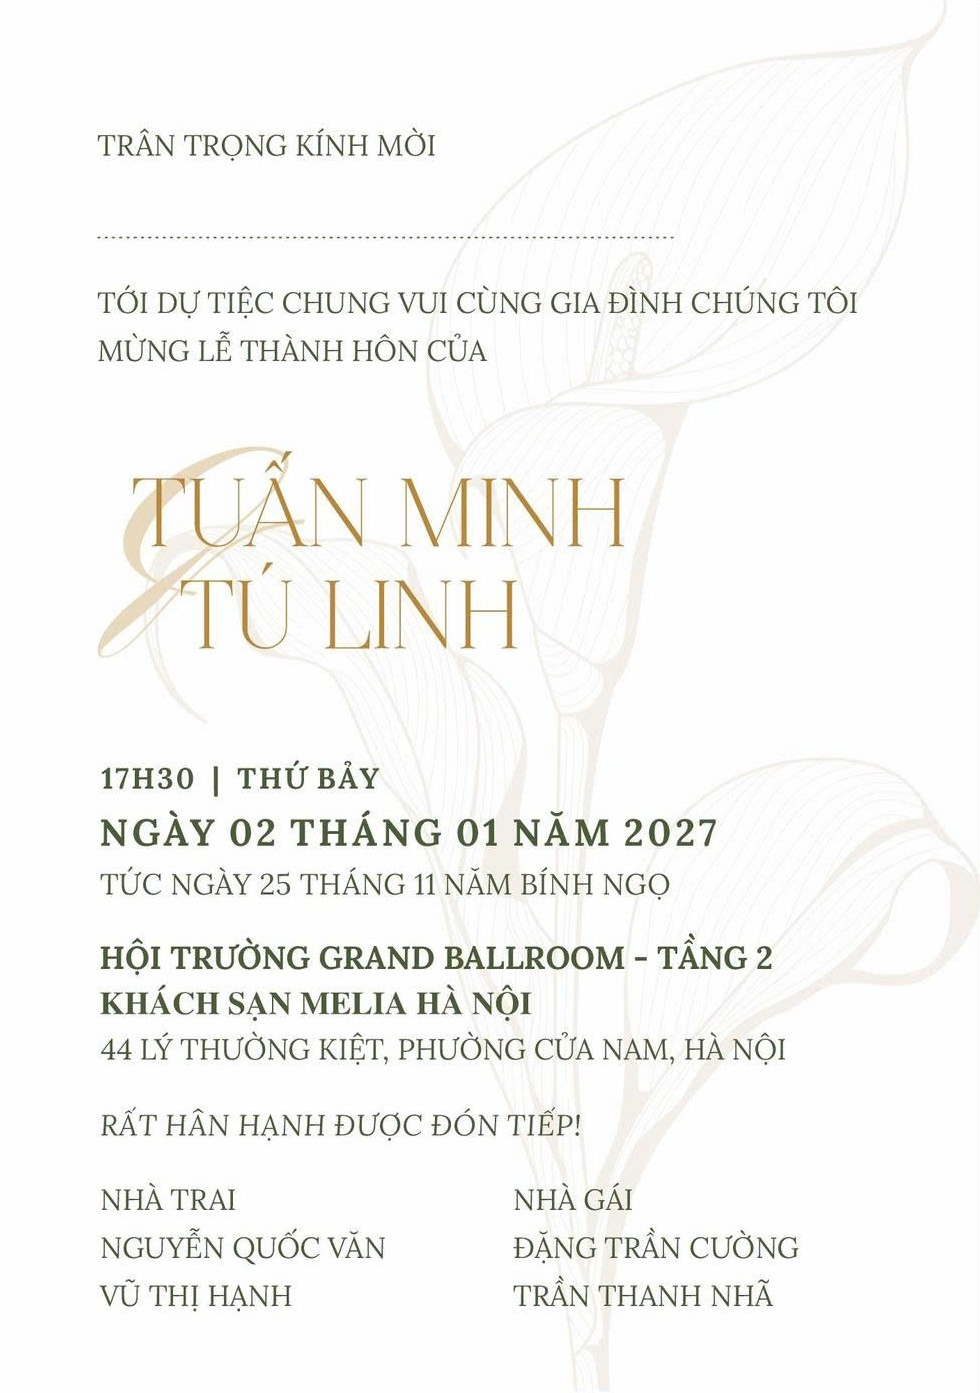
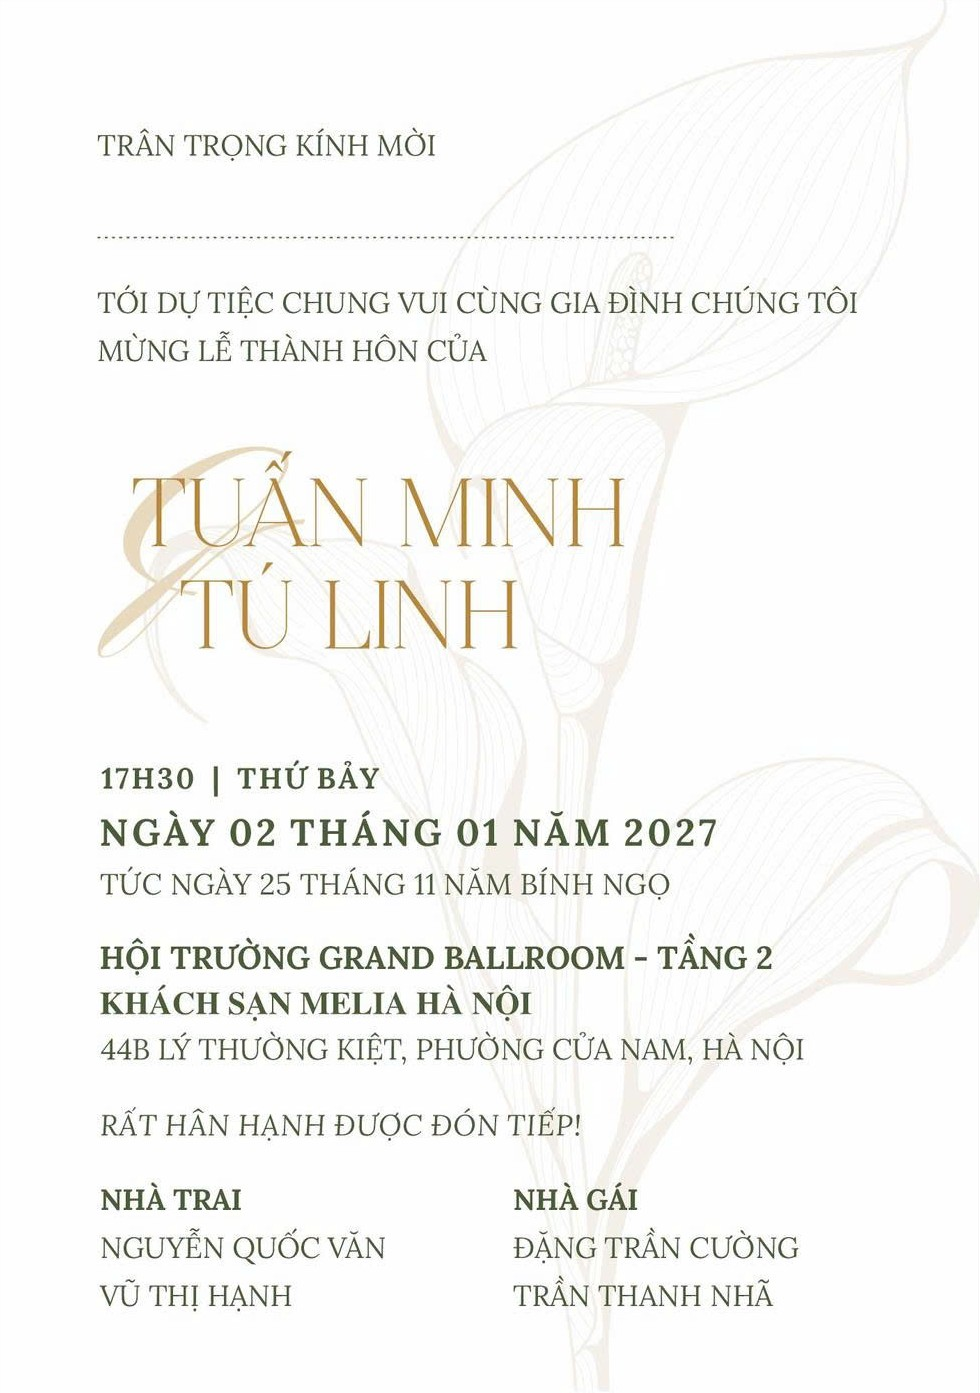
Cập nhật hai mặt thiệp theo bản in mới (Chương trình tiệc cưới, số nhà 44B)

Changed region(s): [[0.1224, 0.7408, 0.8265, 0.7717], [0.0918, 0.8335, 0.2449, 0.8952], [0.5204, 0.8335, 0.6429, 0.8952]]

diff --git a/config.js b/config.js
@@ -24,7 +24,7 @@ window.THIEP = {
   //    Ảnh nào chưa có thì trang tự hiện khung trống.
   thiep: [
     "images/thiep/1.jpg",   // lời mời (mặt sau thiệp giấy)
-    "images/thiep/2.jpg",   // timeline (mặt trước thiệp giấy, đã bỏ mã QR và lề trống)
+    "images/thiep/2.jpg",   // chương trình tiệc cưới (mặt trước thiệp giấy, đã bỏ mã QR và lề trống)
   ],
 
   // 2) ĐỊA ĐIỂM

diff --git a/README.md b/README.md
@@ -15,7 +15,7 @@ Thiệp cưới online, chạy trên GitHub Pages:
 | `index.html`, `style.css`, `script.js` | Khung trang, giao diện, hiệu ứng. Độ mờ nền chỉnh ở biến `--do-mo-nen` trong `style.css`. |
 | `images/nen.jpg` | Ảnh nền hoa |
 | `images/logo-lm.png` | Logo LM ở đầu trang (nền trong suốt) |
-| `images/thiep/` | Ảnh thiết kế thiệp: `1.jpg` lời mời, `2.jpg` timeline (cắt từ bản duyệt in) |
+| `images/thiep/` | Ảnh thiết kế thiệp: `1.jpg` lời mời, `2.jpg` chương trình tiệc cưới (cắt từ bản duyệt in) |
 | `images/gallery/` | Ảnh cưới cho album (liệt kê tên file trong `config.js`) |
 | `qr/` | Mã QR (PNG, SVG) và script tạo mã `tao_qr.py` |
 | `QR-thiep-cuoi-*.pdf` | Mã QR bản PDF vector để gửi nhà in |
